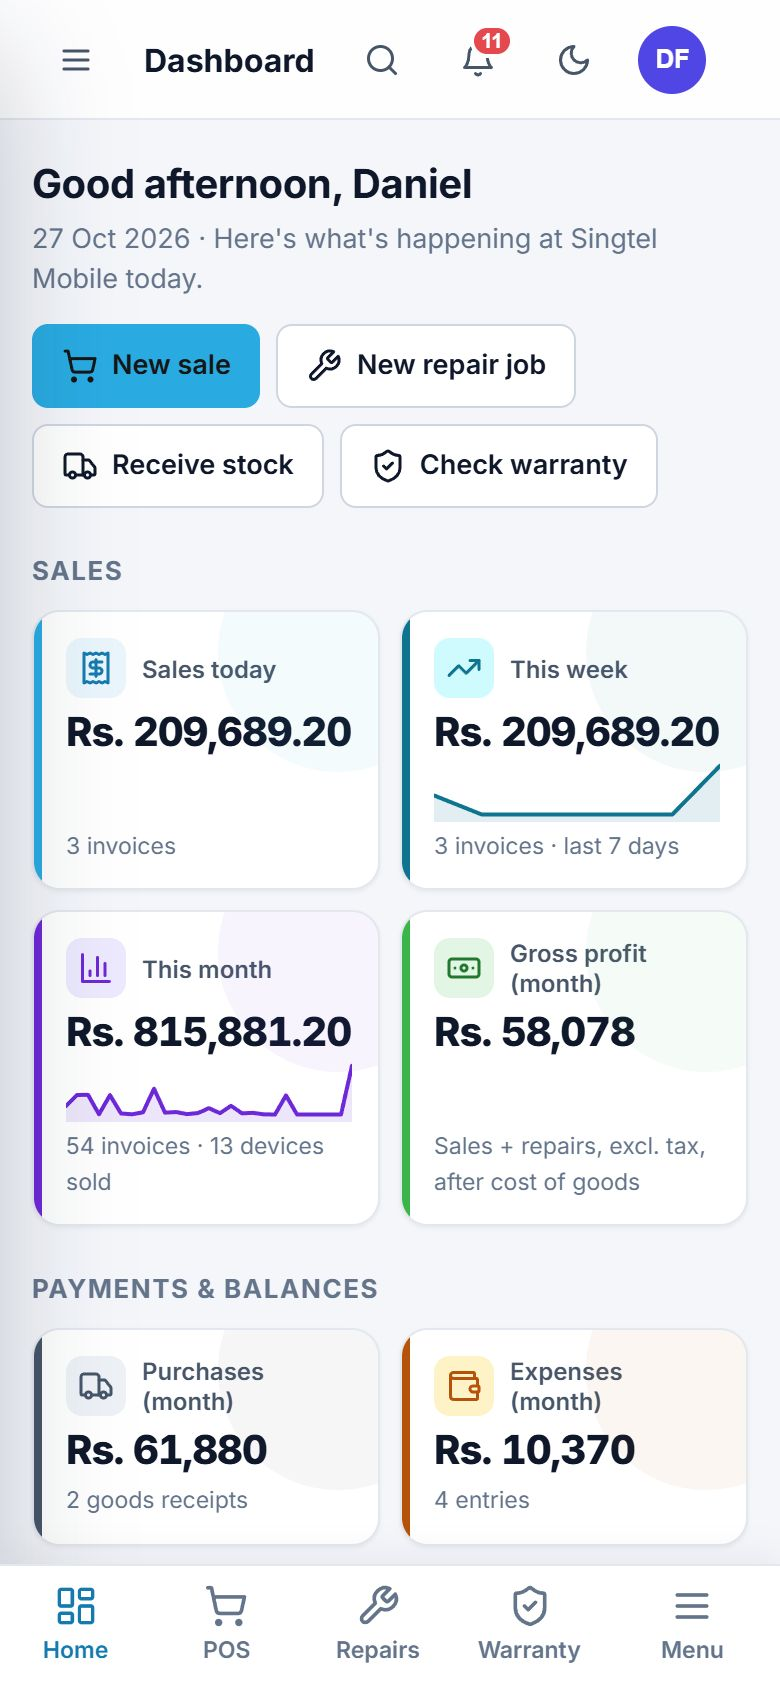
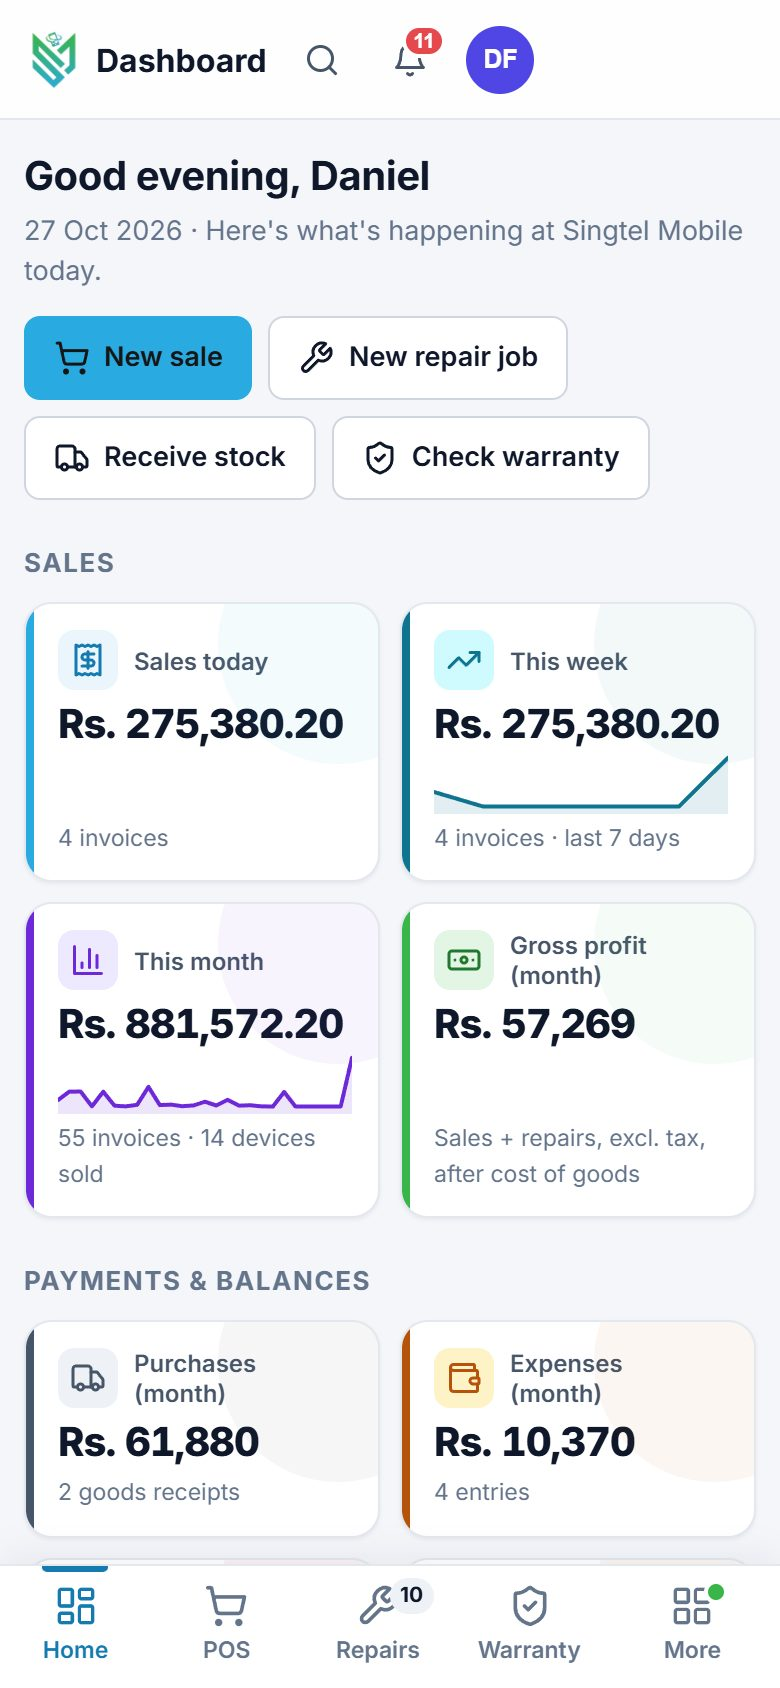
Phones & tablets: always-visible bottom bar with a 'More' sheet instead of the duplicate sidebar; login intro animation
- Up to 1024px: no hamburger or slide-out sidebar; bottom bar (4 main screens + More) with live counters
- 'More' sheet lists only the remaining screens as tiles, plus dark mode, permissions, password, sign out
- Phone top bar: logo + full page title (dark-mode toggle moved into More)
- Login: photo, left text and sign-in card animate in
- Manual: phone/tablet navigation updated

diff --git a/public/assets/css/styles.css b/public/assets/css/styles.css
@@ -475,6 +475,20 @@ a.list-row:hover { background: var(--surface-2); text-decoration: none; }
 .lg-bg .b2 { width: 580px; height: 580px; right: -160px; bottom: -220px; background: #39b54a; animation-delay: -6s; }
 @keyframes lg-drift { to { transform: translate(70px, 50px) scale(1.12); } }
 @media (prefers-reduced-motion: reduce) { .lg-bg i { animation: none; } }
+/* Login intro: photo fades in, left text slides in line by line, the sign-in card slides in from the right */
+@keyframes lg-photo-in { from { opacity: 0; transform: scale(1.14); } }
+@keyframes lg-in-left { from { opacity: 0; transform: translateX(-32px); } }
+@keyframes lg-in-right { from { opacity: 0; transform: translateX(40px) scale(.98); } }
+@keyframes lg-in-up { from { opacity: 0; transform: translateY(14px); } }
+.lg-photo { animation: lg-photo-in 1.6s cubic-bezier(.2,.8,.2,1) both; }
+.lg-brand { animation: lg-in-up .6s ease-out .05s both; }
+.lg-copy > * { animation: lg-in-left .75s cubic-bezier(.2,.8,.2,1) both; }
+.lg-copy > :nth-child(1) { animation-delay: .15s; }
+.lg-copy > :nth-child(2) { animation-delay: .28s; }
+.lg-copy > :nth-child(3) { animation-delay: .42s; }
+.lg-copy > :nth-child(4) { animation-delay: .56s; }
+.lg-card { animation: lg-in-right .85s cubic-bezier(.2,.8,.2,1) .3s both; }
+.login > .app-credit { animation: lg-in-up .6s ease-out .8s both; }
 .lg-inner { position: relative; z-index: 2; max-width: 1440px; min-height: 100vh; margin: 0 auto; padding: 36px 56px 64px; display: grid; grid-template-columns: minmax(0, 1fr) 420px; grid-template-rows: auto 1fr; column-gap: 40px; }
 .lg-brand { grid-column: 1 / -1; padding: 0; border: 0; height: auto; }
 .lg-brand .brand-sub { color: #9aa3ad; }
@@ -640,12 +654,10 @@ a.list-row:hover { background: var(--surface-2); text-decoration: none; }
   .form-grid.cols-4 { grid-template-columns: repeat(2, minmax(0, 1fr)); }
 }
 @media (max-width: 1024px) {
-  .sidebar { transform: translateX(-100%); box-shadow: var(--shadow-lg); }
-  .nav-open .sidebar { transform: none; }
-  .nav-open .scrim { display: block; }
+  .sidebar, .scrim, .topbar .menu-btn { display: none !important; }
   .main { margin-left: 0; }
   .topbar { padding: 0 16px; }
-  .topbar .menu-btn { display: grid; }
+  .topbar .topbar-logo { display: block; }
   .content { padding: 20px 16px; }
   .demo-ribbon { padding: 6px 16px; }
   /* Tablet POS: cart becomes a slide-over sheet */
@@ -655,8 +667,22 @@ a.list-row:hover { background: var(--surface-2); text-decoration: none; }
   .pos.show-cart .cart-scrim { display: block; }
   .cart-scrim { position: fixed; inset: 0; background: rgba(2,6,23,.5); z-index: 85; display: none; }
   .cart-close { display: inline-grid !important; }
-  .cart-fab { display: flex; position: fixed; z-index: 50; left: 16px; right: 16px; bottom: 16px; height: 54px; border-radius: 14px; background: var(--brand); color: var(--on-brand); border: 0; font: inherit; font-weight: 650; font-size: 15px; align-items: center; justify-content: space-between; padding: 0 18px; box-shadow: var(--shadow-lg); cursor: pointer; }
-  .pos-left { padding-bottom: 70px; }
+  .cart-fab { display: flex; position: fixed; z-index: 50; left: 16px; right: 16px; bottom: calc(74px + env(safe-area-inset-bottom)); height: 54px; border-radius: 14px; background: var(--brand); color: var(--on-brand); border: 0; font: inherit; font-weight: 650; font-size: 15px; align-items: center; justify-content: space-between; padding: 0 18px; box-shadow: var(--shadow-lg); cursor: pointer; }
+  .pos-left { padding-bottom: 140px; }
+  /* Bottom navigation: always visible on tablets and phones */
+  .bottom-nav { display: flex; justify-content: center; position: fixed; z-index: 45; left: 0; right: 0; bottom: 0; height: calc(62px + env(safe-area-inset-bottom)); padding-bottom: env(safe-area-inset-bottom);
+    background: var(--surface); border-top: 1px solid var(--border); box-shadow: 0 -4px 18px rgba(15,23,42,.06); }
+  .bn-item { position: relative; flex: 1; max-width: 140px; display: flex; flex-direction: column; align-items: center; justify-content: center; gap: 3px; color: var(--muted); font: inherit; font-size: 11.5px; font-weight: 600; background: none; border: 0; cursor: pointer; text-decoration: none; -webkit-tap-highlight-color: transparent; }
+  .bn-item:hover { text-decoration: none; color: var(--text); }
+  .bn-item.active { color: var(--primary); }
+  .bn-item.active::before { content: ""; position: absolute; top: 0; left: 28%; right: 28%; height: 3px; border-radius: 0 0 3px 3px; background: var(--primary); }
+  .bn-item .ic { width: 22px; height: 22px; }
+  .bn-badge { position: absolute; top: 6px; left: calc(50% + 6px); min-width: 18px; height: 18px; padding: 0 5px; border-radius: 9px; background: var(--surface-3); color: var(--text); font-size: 10.5px; font-weight: 700; line-height: 18px; text-align: center; }
+  .bn-badge.warn { background: #39b54a; color: #fff; }
+  .bn-dot { position: absolute; top: 9px; left: calc(50% + 8px); width: 8px; height: 8px; border-radius: 50%; background: #39b54a; box-shadow: 0 0 0 2px var(--surface); }
+  .content { padding-bottom: 12px; }
+  .main > .app-credit { padding-bottom: calc(76px + env(safe-area-inset-bottom)); }
+  #toast-root { bottom: calc(78px + env(safe-area-inset-bottom)); }
 }
 @media (max-width: 900px) {
   .board { grid-template-columns: repeat(2, minmax(0, 1fr)); }
@@ -734,18 +760,39 @@ a.list-row:hover { background: var(--surface-2); text-decoration: none; }
   .xs { font-size: 12px; }
   .steps { display: none; }
   .steps-compact { display: block; }
-  .bottom-nav { display: flex; position: fixed; z-index: 45; left: 0; right: 0; bottom: 0; height: calc(62px + env(safe-area-inset-bottom)); padding-bottom: env(safe-area-inset-bottom);
-    background: var(--surface); border-top: 1px solid var(--border); box-shadow: 0 -4px 18px rgba(15,23,42,.06); }
-  .bn-item { flex: 1; display: flex; flex-direction: column; align-items: center; justify-content: center; gap: 3px; color: var(--muted); font: inherit; font-size: 11.5px; font-weight: 600; background: none; border: 0; cursor: pointer; text-decoration: none; }
-  .bn-item:hover { text-decoration: none; color: var(--text); }
-  .bn-item.active { color: var(--primary); }
-  .bn-item .ic { width: 22px; height: 22px; }
-  .content { padding-bottom: 12px; }
-  .main > .app-credit { padding-bottom: calc(76px + env(safe-area-inset-bottom)); }
-  .cart-fab { bottom: calc(74px + env(safe-area-inset-bottom)); }
-  .pos-left { padding-bottom: 140px; }
-  #toast-root { bottom: calc(78px + env(safe-area-inset-bottom)); }
+  /* phone top bar: logo + title, search, alerts, account (dark mode lives in "More") */
+  .topbar { gap: 6px; padding: 0 8px 0 12px; }
+  .top-actions { gap: 0; }
+  .top-actions [data-action=theme] { display: none; }
+  .page-title { min-width: 0; }
+  #pos-hint { display: none; }
+  .content { padding: 16px 12px 12px; }
+  .main > .app-credit { font-size: 10.5px; }
 }
+/* "More" sheet (tablets & phones): every other screen + account actions, slides up from the bottom */
+.topbar-logo { display: none; width: 30px; height: 30px; object-fit: contain; flex-shrink: 0; }
+.sheet-wrap { position: fixed; inset: 0; z-index: 80; }
+.sheet-scrim { position: absolute; inset: 0; background: rgba(2,6,23,.45); opacity: 0; transition: opacity .2s ease; }
+.sheet { position: absolute; left: 0; right: 0; bottom: 0; max-height: 86vh; display: flex; flex-direction: column; margin: 0 auto; max-width: 720px; background: var(--surface); border-radius: 20px 20px 0 0; box-shadow: 0 -10px 40px rgba(2,6,23,.25); transform: translateY(100%); transition: transform .24s cubic-bezier(.2,.8,.2,1); padding-bottom: env(safe-area-inset-bottom); }
+.sheet-wrap.open .sheet { transform: none; }
+.sheet-wrap.open .sheet-scrim { opacity: 1; }
+.sheet-grip { width: 42px; height: 5px; border-radius: 3px; background: var(--border); margin: 8px auto 2px; flex-shrink: 0; }
+.sheet-user { display: flex; align-items: center; gap: 10px; padding: 8px 12px 10px 16px; border-bottom: 1px solid var(--border); flex-shrink: 0; }
+.sheet-body { overflow-y: auto; padding: 4px 12px 16px; overscroll-behavior: contain; }
+.sheet-group { padding-top: 12px; }
+.sheet-title { font-size: 11.5px; font-weight: 700; letter-spacing: .08em; text-transform: uppercase; color: var(--muted); padding: 0 6px 8px; }
+.sheet-grid { display: grid; grid-template-columns: repeat(auto-fill, minmax(96px, 1fr)); gap: 6px; }
+.sheet-tile { display: flex; flex-direction: column; align-items: center; gap: 7px; padding: 12px 4px 10px; border-radius: 14px; color: var(--text); font-size: 12.5px; font-weight: 600; text-align: center; line-height: 1.25; text-decoration: none; -webkit-tap-highlight-color: transparent; }
+.sheet-tile:hover, .sheet-tile:active { background: var(--surface-2); text-decoration: none; }
+.sheet-tile.active { background: var(--primary-50); color: var(--primary); }
+.sheet-ic { position: relative; width: 46px; height: 46px; border-radius: 14px; display: grid; place-items: center; background: var(--surface-2); color: var(--primary); }
+.sheet-tile.active .sheet-ic { background: var(--primary); color: var(--on-brand); }
+.sheet-ic .ic { width: 22px; height: 22px; }
+.sheet-badge { position: absolute; top: -5px; right: -7px; min-width: 19px; height: 19px; padding: 0 5px; border-radius: 10px; background: var(--surface-3); color: var(--text); font-size: 10.5px; font-weight: 700; line-height: 19px; box-shadow: 0 0 0 2px var(--surface); }
+.sheet-badge.warn { background: #39b54a; color: #fff; }
+.sheet-list { display: grid; grid-template-columns: repeat(auto-fill, minmax(200px, 1fr)); gap: 4px; }
+.sheet-list .menu-item { border-radius: 10px; min-height: 46px; }
+body.sheet-open { overflow: hidden; }
 @media (max-width: 340px) {
   .kpis { grid-template-columns: minmax(0, 1fr); }
   .products-grid { grid-template-columns: repeat(2, minmax(0, 1fr)); gap: 8px; }

diff --git a/public/assets/js/app.js b/public/assets/js/app.js
@@ -75,7 +75,10 @@ function render() {
   const allowed = !def.perm || can(...def.perm);
   $('#page-title').textContent = def.title;
   document.title = `${def.title} · ${db.settings.shopName}`;
-  $$('.nav-link, .bn-item').forEach((a) => a.classList.toggle('active', a.dataset.key === (def.nav || page)));
+  const navKey = def.nav || page;
+  $$('.nav-link, .bn-item[data-key]').forEach((a) => a.classList.toggle('active', a.dataset.key === navKey));
+  const moreBtn = $('.bn-item[data-action=open-more]'); if (moreBtn) moreBtn.classList.toggle('active', !BN_KEYS.includes(navKey));
+  if (path !== lastPath) closeMoreSheet();
   if (!allowed) {
     content.innerHTML = `<div class="card"><div class="card-body">${emptyState('lock', 'Access restricted', `Your role (${roleOf().name}) does not have permission to view ${def.title}. Ask an administrator to update your permissions.`, `<a class="btn" href="${landing()}">Back to start page</a>`)}</div></div>`;
     return;
@@ -144,6 +147,7 @@ function afterLogin() {
   render();
 }
 async function signOut(message) {
+  closeMoreSheet();
   await logout();
   Object.keys(DT).forEach((k) => delete DT[k]);
   POS.items = []; POS.customerId = ''; POS.discount = 0;
@@ -172,7 +176,8 @@ function renderShell() {
     <div class="main">
       <header class="topbar">
         <button class="icon-btn menu-btn" data-action="open-nav" aria-label="Show or hide menu" data-tip="Show / hide menu">${icon('menu')}</button>
-        <div class="page-title" id="page-title"></div>
+        <img class="topbar-logo" src="assets/img/logo-mark.png" alt="">
+        <div class="page-title truncate" id="page-title"></div>
         <div class="global-search" id="gsearch">
           <div class="input-icon">${icon('search')}<input class="input" id="gs-input" type="search" placeholder="Search IMEI, invoice, job no., customer…  ( / )" autocomplete="off" aria-label="Global search"></div>
           <div class="search-results hidden" id="gs-results"></div>
@@ -198,10 +203,11 @@ function renderShell() {
 function updateChrome() {
   NAV.forEach((g) => g.items.forEach((it) => {
     if (!it.count) return;
-    const el = document.querySelector(`[data-count="${it.key}"]`);
-    if (!el) return;
-    const n = it.count(); el.textContent = n; el.hidden = !n;
+    const n = it.count();
+    $$(`[data-count="${it.key}"]`).forEach((el) => { el.textContent = n; el.hidden = !n; });
   }));
+  const dot = $('#bn-more-dot');
+  if (dot) dot.hidden = !NAV.some((g) => g.items.some((it) => it.count && it.warn && !BN_KEYS.includes(it.key) && can(...it.perm) && it.count() > 0));
   const n = getNotifications().length;
   const nc = $('#notif-count'); if (nc) { nc.textContent = n; nc.classList.toggle('hidden', !n); }
 }
@@ -213,13 +219,51 @@ function credit() {
   return `<footer class="app-credit no-print">© ${new Date().getFullYear()} Singtel Mobile. All rights reserved. · v${APP_VERSION} · Developed by Grow More Solutions Pvt Ltd · <a href="tel:+94779895511">077 989 5511</a></footer>`;
 }
 
-/* Phone bottom bar: the 4 most-used screens this role may open + Menu */
+/* Tablet & phone bottom bar: the 4 most-used screens this role may open + More (everything else) */
+let BN_KEYS = [];
 function bottomNav() {
   const all = NAV.flatMap((g) => g.items);
   const pick = ['dashboard', 'pos', 'repairs', 'warranties', 'sales', 'inventory', 'imei', 'claims', 'customers', 'purchases', 'reports']
     .map((k) => all.find((it) => it.key === k)).filter((it) => it && can(...it.perm)).slice(0, 4);
+  BN_KEYS = pick.map((it) => it.key);
   const short = { dashboard: 'Home', pos: 'POS', repairs: 'Repairs', warranties: 'Warranty', sales: 'Sales', inventory: 'Stock', imei: 'IMEI', claims: 'Claims', customers: 'Customers', purchases: 'Purchases', reports: 'Reports' };
-  return `<nav class="bottom-nav no-print" aria-label="Quick navigation">${pick.map((it) => `<a class="bn-item" href="#/${it.key}" data-key="${it.key}">${icon(it.icon)}<span>${short[it.key]}</span></a>`).join('')}<button class="bn-item" data-action="open-nav" aria-label="Open menu">${icon('menu')}<span>Menu</span></button></nav>`;
+  return `<nav class="bottom-nav no-print" aria-label="Quick navigation">${pick.map((it) => `<a class="bn-item" href="#/${it.key}" data-key="${it.key}">${icon(it.icon)}<span>${short[it.key]}</span>${it.count ? `<span class="bn-badge ${it.warn ? 'warn' : ''}" data-count="${it.key}" hidden></span>` : ''}</a>`).join('')}<button class="bn-item" data-action="open-more" aria-label="More screens and account">${icon('grid')}<span>More</span><span class="bn-dot" id="bn-more-dot" hidden></span></button></nav>`;
+}
+
+/* "More" sheet: the screens not on the bottom bar, grouped like the desktop menu, plus account actions */
+function closeMoreSheet() {
+  const s = $('#more-sheet'); if (!s) return;
+  s.classList.remove('open'); document.body.classList.remove('sheet-open');
+  document.removeEventListener('keydown', sheetKey);
+  setTimeout(() => s.remove(), 230);
+}
+function sheetKey(e) { if (e.key === 'Escape') closeMoreSheet(); }
+function openMoreSheet() {
+  if ($('#more-sheet')) { closeMoreSheet(); return; }
+  const cur = parseHash().page; const dark = document.documentElement.dataset.theme === 'dark';
+  const groups = NAV.map((g) => ({ title: g.title, items: g.items.filter((it) => can(...it.perm) && !BN_KEYS.includes(it.key)) })).filter((g) => g.items.length);
+  const el = document.createElement('div');
+  el.id = 'more-sheet'; el.className = 'sheet-wrap no-print';
+  el.innerHTML = `<div class="sheet-scrim" data-action="close-more"></div>
+    <div class="sheet" role="dialog" aria-modal="true" aria-label="More screens">
+      <div class="sheet-grip"></div>
+      <div class="sheet-user">${avatar(currentUser.name)}<div class="grow" style="min-width:0"><div class="bold truncate">${h(currentUser.name)}</div><div class="xs muted truncate">${h(roleOf().name)} · ${h(db.settings.shopName)}</div></div><button class="icon-btn" data-action="close-more" aria-label="Close">${icon('x')}</button></div>
+      <div class="sheet-body">
+        ${groups.map((g) => `<div class="sheet-group"><div class="sheet-title">${g.title}</div><div class="sheet-grid">${g.items.map((it) => { const n = it.count ? it.count() : 0; return `<a class="sheet-tile ${it.key === cur ? 'active' : ''}" href="#/${it.key}"><span class="sheet-ic">${icon(it.icon)}${n ? `<span class="sheet-badge ${it.warn ? 'warn' : ''}">${n}</span>` : ''}</span><span>${it.label}</span></a>`; }).join('')}</div></div>`).join('')}
+        <div class="sheet-group"><div class="sheet-title">Account</div><div class="sheet-list">
+          <button class="menu-item" data-action="theme-sheet">${icon(dark ? 'sun' : 'moon', 'ic-sm')} ${dark ? 'Light mode' : 'Dark mode'}</button>
+          <button class="menu-item" data-action="my-perms">${icon('key', 'ic-sm')} My permissions</button>
+          <button class="menu-item" data-action="change-password">${icon('lock', 'ic-sm')} Change password</button>
+          ${META.demo ? `<button class="menu-item" data-action="switch-user">${icon('swap', 'ic-sm')} Switch user (demo)</button>` : ''}
+          <button class="menu-item danger-text" data-action="logout">${icon('logout', 'ic-sm')} Sign out</button>
+        </div></div>
+      </div>
+    </div>`;
+  document.body.appendChild(el); document.body.classList.add('sheet-open');
+  document.addEventListener('keydown', sheetKey);
+  requestAnimationFrame(() => requestAnimationFrame(() => el.classList.add('open')));
+  // tapping a screen or an account action closes the sheet (the action itself still runs)
+  el.addEventListener('click', (e) => { if (e.target.closest('.sheet-tile, .menu-item')) closeMoreSheet(); });
 }
 
 /* ---------------- Sidebar: hide button + auto-close ---------------- */
@@ -301,6 +345,9 @@ Object.assign(ACT, {
     SB.touch();
   },
   'close-nav': () => document.body.classList.remove('nav-open'),
+  'open-more': () => openMoreSheet(),
+  'close-more': () => closeMoreSheet(),
+  'theme-sheet': () => { const b = $('.top-actions [data-action=theme]'); if (b) ACT.theme(b); },
   'toggle-search': () => { const g = $('#gsearch'); g.classList.toggle('collapsed'); if (!g.classList.contains('collapsed')) $('#gs-input').focus(); },
   theme: (el) => {
     const next = document.documentElement.dataset.theme === 'dark' ? 'light' : 'dark';

diff --git a/docs/manual/manual.html b/docs/manual/manual.html
@@ -143,7 +143,7 @@
   <table>
     <tr><th style="width:30%">Part of the screen</th><th>What it does</th></tr>
     <tr><td><b>Menu (left)</b></td><td>The modules: Sales, Inventory, Service, Finance and Administration. Numbers on the menu show items needing attention, such as low stock, open repairs and pending claims. You only see the modules your role allows.</td></tr>
-    <tr><td><b>☰ button</b></td><td>Shrinks the menu to icons or opens it again. The menu also closes by itself 10 seconds after the mouse leaves it, which gives you more working space.</td></tr>
+    <tr><td><b>☰ button</b> (computer)</td><td>Shrinks the menu to icons or opens it again. The menu also closes by itself 10 seconds after the mouse leaves it, which gives you more working space.</td></tr>
     <tr><td><b>Search bar</b></td><td>Finds anything: an IMEI, invoice, repair job number, warranty or customer. Press <span class="ui">/</span> on the keyboard to jump to it. Type at least 2 characters, then use the arrow keys and Enter.</td></tr>
     <tr><td><b>Bell</b></td><td>Alerts: low or out-of-stock items, overdue repairs, devices ready for collection, warranties expiring, claims waiting and customers owing money.</td></tr>
     <tr><td><b>Moon / sun</b></td><td>Switches between light and dark mode.</td></tr>
@@ -152,9 +152,10 @@
   <div class="callout tip"><b>Everyone sees the same live data</b>The screen refreshes with other staff members' changes every 45 seconds. For example, a sale made at the counter appears on the manager's PC within a minute.</div>
 
   <h2>Using a phone or tablet</h2>
-  <div class="two">
+  <div class="two" style="grid-template-columns:1fr 1fr 1.4fr">
     <figure class="phone" style="margin:0"><img src="img/23-phone.jpg" style="width:70%"><figcaption>Phone view with the bottom bar</figcaption></figure>
-    <div><p>On a phone, the four screens you use most appear in a <b>bottom bar</b>, such as Home, POS, Repairs and Warranty. Tap <b>Menu</b> for everything else.</p><p>Buttons are sized for fingers, and tables turn into easy-to-read cards. In the POS, the cart opens from the floating <b>Cart</b> button.</p><p>With Chrome on Android you can also use the phone camera to scan IMEI barcodes (see chapter 8).</p></div>
+    <figure class="phone" style="margin:0"><img src="img/23b-phone-more.jpg" style="width:70%"><figcaption>"More" opens every other screen</figcaption></figure>
+    <div><p>On a phone or tablet, the four screens you use most are always in the <b>bottom bar</b>, for example Home, POS, Repairs and Warranty. Small numbers on the bar show items waiting, such as open repairs.</p><p>Tap <b>More</b> for every other screen. They are shown as large tiles grouped like the computer menu, together with <b>Dark mode</b>, <b>My permissions</b>, <b>Change password</b> and <b>Sign out</b>. A green dot on More means something there needs attention, such as low stock or a pending claim.</p><p>Buttons are sized for fingers, and tables turn into easy-to-read cards. In the POS, the cart opens from the floating <b>Cart</b> button.</p><p>With Chrome on Android you can also use the phone camera to scan IMEI barcodes (see chapter 8).</p></div>
   </div>
 </section>
 
